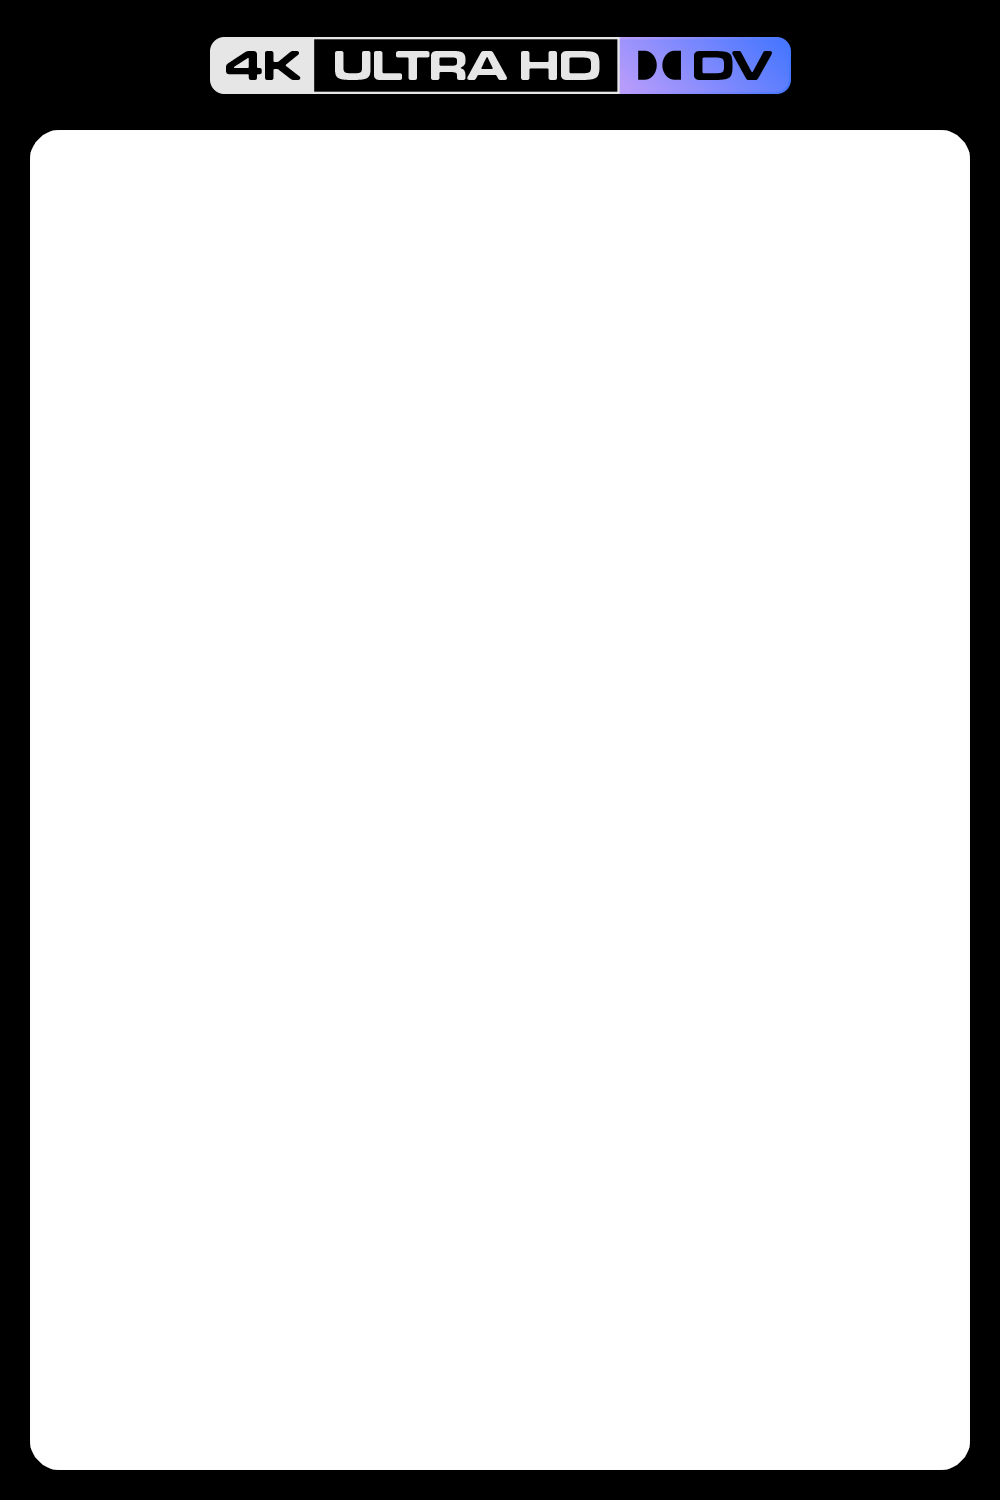
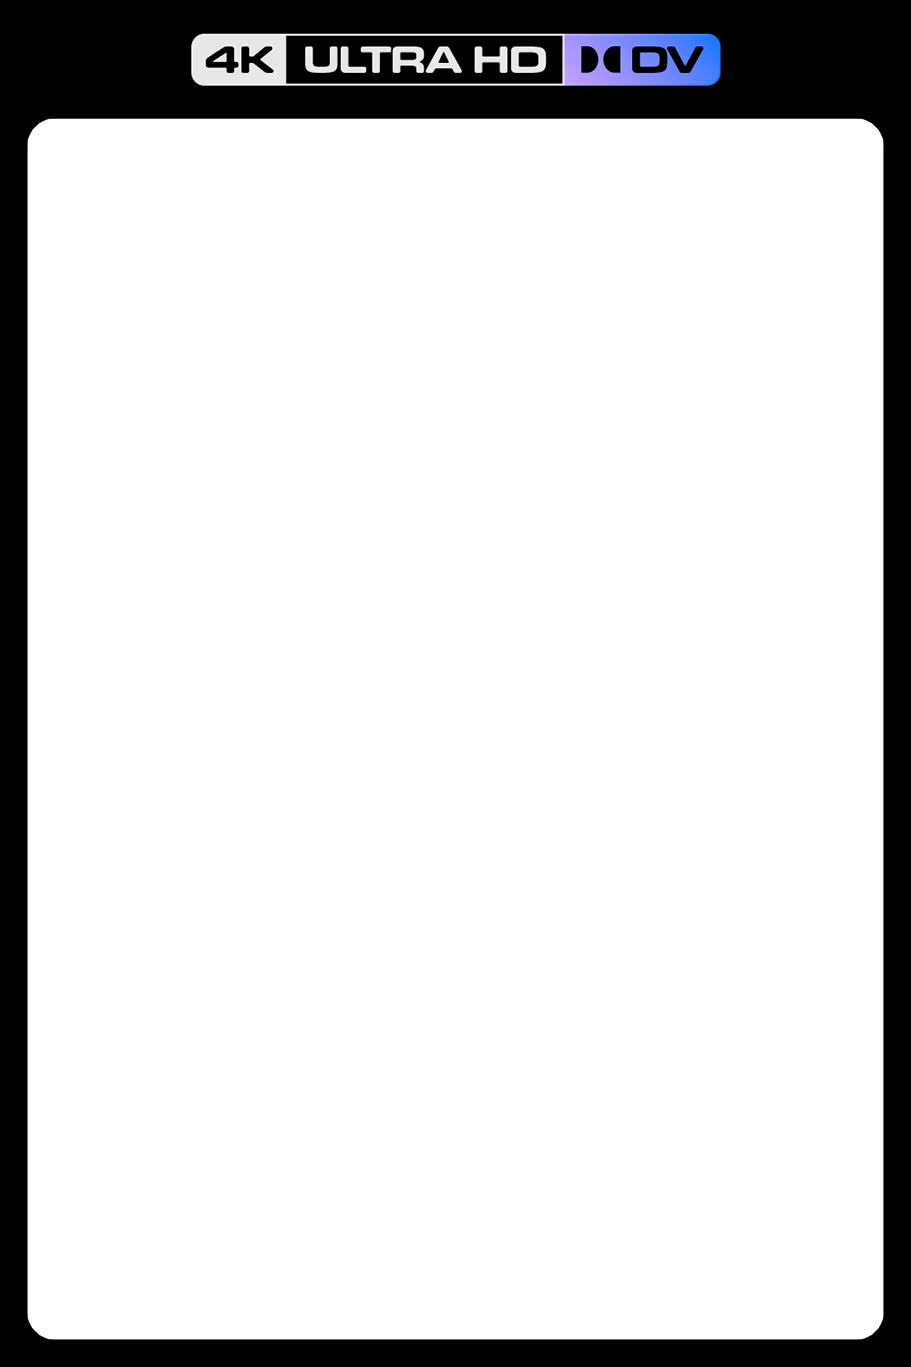
1

Changed region(s): [[0.7684, 0.0, 0.7991, 0.0614]]

diff --git a/4k_hdr_poster.py b/4k_hdr_poster.py
@@ -60,7 +60,7 @@ def poster_4k_hdr():
 
     print('creating poster')    
     background = Image.open('poster.png')
-    background = background.resize(size,Image.ANTIALIAS)
+    background = background.resize(size,Image.Resampling.LANCZOS)
     background.paste(banner_4k_hdr, (0, 0), banner_4k_hdr)
     background.save('poster.png')
     i.uploadPoster(filepath="poster.png")
@@ -93,7 +93,7 @@ def poster_4k_dv():
 
     print('creating poster')    
     background = Image.open('poster.png')
-    background = background.resize(size,Image.ANTIALIAS)
+    background = background.resize(size,Image.Resampling.LANCZOS)
     background.paste(banner_4k_dv, (0, 0), banner_4k_dv)
     background.save('poster.png')
     i.uploadPoster(filepath="poster.png")
@@ -126,7 +126,7 @@ def poster_4k():
 
     print('creating poster')    
     background = Image.open('poster.png')
-    background = background.resize(size,Image.ANTIALIAS)
+    background = background.resize(size,Image.Resampling.LANCZOS)
     background.paste(banner_4k, (0, 0), banner_4k)
     background.save('poster.png')
     i.uploadPoster(filepath="poster.png")
@@ -145,7 +145,7 @@ def poster_4ktv():
 
     print('creating poster')    
     background = Image.open('poster.png')
-    background = background.resize(size,Image.ANTIALIAS)
+    background = background.resize(size,Image.Resampling.LANCZOS)
     background.paste(banner_4k, (0, 0), banner_4k)
     background.save('poster.png')
     i.uploadPoster(filepath="poster.png")
@@ -164,7 +164,7 @@ def poster_4ktvdv():
 
     print('creating poster')    
     background = Image.open('poster.png')
-    background = background.resize(size,Image.ANTIALIAS)
+    background = background.resize(size,Image.Resampling.LANCZOS)
     background.paste(banner_4k_dv, (0, 0), banner_4k_dv)
     background.save('poster.png')
     i.uploadPoster(filepath="poster.png")
